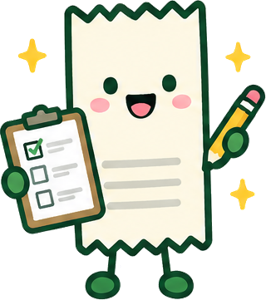
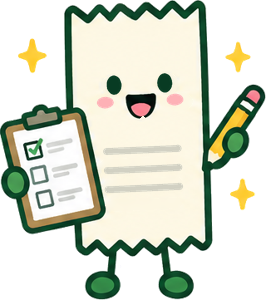
Every Tally gets the same face: oval eyes, two cheeks, three receipt lines at one spacing; new ledger pose on the push loading card
Claude-Session: https://claude.ai/code/session_01SRusdsFK9H5GETXzhfsEAT

Changed region(s): [[0.3609, 0.48, 0.6917, 0.72], [0.3308, 0.24, 0.4812, 0.39], [0.5714, 0.24, 0.7218, 0.36]]

diff --git a/ui/common.py b/ui/common.py
@@ -145,13 +145,14 @@ def guide(title: str, body: str, *, key: str, tip: bool = False, to: str | None 
     return bubble
 
 
-def loading(slot, title: str, detail: str, frac: float | None, rows: list[str | None] = ()) -> None:
+def loading(slot, title: str, detail: str, frac: float | None, rows: list[str | None] = (),
+            pose: str = "tally-magnify.png") -> None:
     """Tally's loading card, drawn into an st.empty() slot. frac None = a bar that just runs.
     rows: one line per item being read, a finished one as text and a waiting one (None) as a skeleton."""
     bar = (f'<div class="bar"><i style="width:{max(frac, 0.04) * 100:.0f}%"></i></div>' if frac is not None
            else '<div class="bar run"><i></i></div>')
     lines = "".join(f"<li>{html.escape(r)}</li>" if r else '<li class="sk"></li>' for r in rows)
-    slot.markdown(f'<div class="tly-loading" role="status"><img src="{mascot_uri("tally-magnify.png")}" alt="">'
+    slot.markdown(f'<div class="tly-loading" role="status"><img src="{mascot_uri(pose)}" alt="">'
                   f'<div><b>{html.escape(title)}</b><small>{html.escape(detail)}</small>{bar}'
                   f'{f"<ul>{lines}</ul>" if lines else ""}</div></div>', unsafe_allow_html=True)
 

diff --git a/ui/summary.py b/ui/summary.py
@@ -114,7 +114,8 @@ def metrics(receipts: list[Receipt], income: dict[str, Decimal]) -> None:
 def push(sink, receipts: list[Receipt], event: EventInfo, income: dict[str, Decimal]) -> None:
     """Write to the books, mark what's in them as posted, and log the run."""
     pushing = st.empty()
-    loading(pushing, f"Tally is writing to {sink.label}", f"{len(receipts)} receipts, plus the event's income", None)
+    loading(pushing, f"Tally is writing to {sink.label}", f"{len(receipts)} receipts, plus the event's income", None,
+            pose="tally-ledger.png")
     try:
         written = sink.post(receipts, event, income)
     except Exception as e:  # network drop, sheet unshared mid-push, quota
